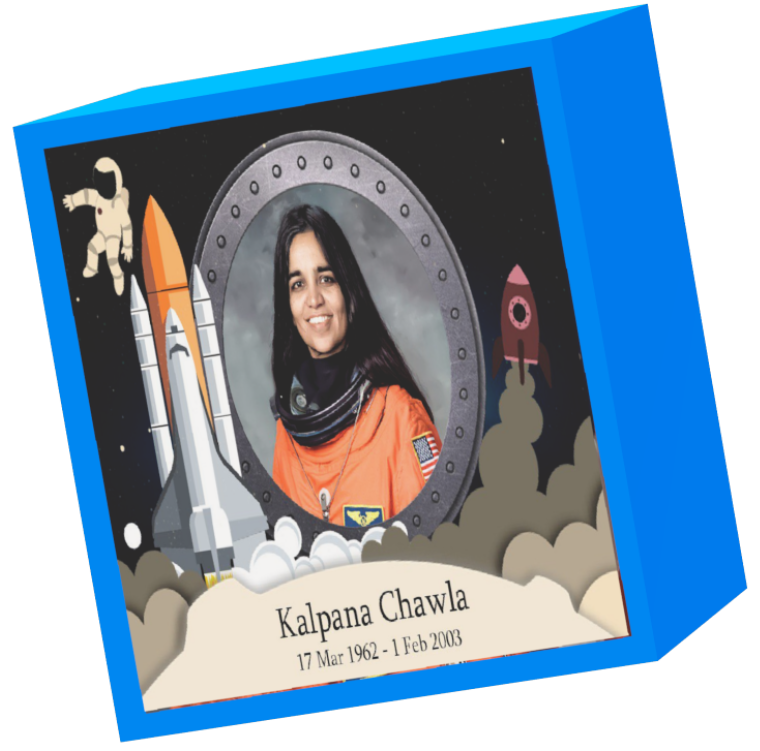
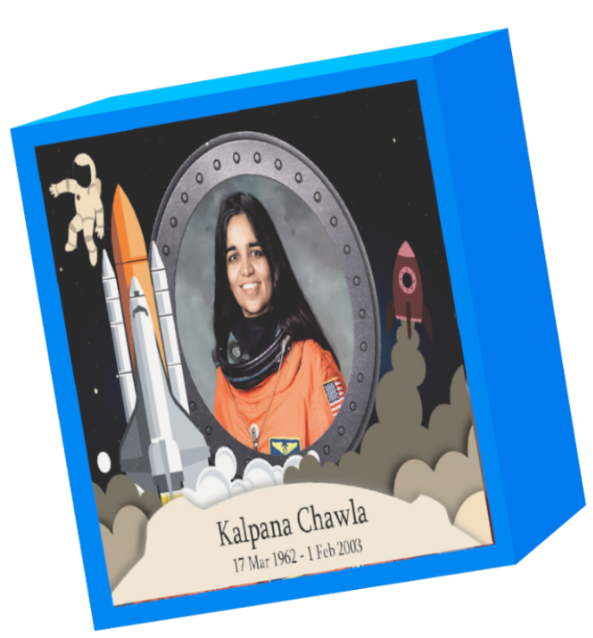
files added

diff --git a/quotes.html b/quotes.html
@@ -41,35 +41,46 @@
 	  <div class="col-md-10">
 	<div class="abouttext justify-content-center">
 		<h2 class="Intro">
-			More about <span id="name"> Kalpana Chawla</span></h2> 
-            <img src="img/4.jpg" class="aboutimg" style="margin-bottom: 20px; margin-top: 20px;" width="100%" height="auto" alt="">
-            <div class="aboutcontent">
-                <p>
-                    When Kalpana was a kid, she would gaze at the stars with her siblings. Right then she made up her mind to unravel the questions of time and space. She once said, “Times like those gave me the opportunity to wonder and ask all those very basic questions. That sense of awe for the heavens started there.”</p>
-            </div><div class="aboutcontent2">
-                        <p>This awe would lead her to overcome all obstacles in her way.
-    
-    At a time when women were still finding it hard to voice their opinions at home and even at work, Kalpana set records and broke glass ceilings everywhere. Unbridled by her status as a woman, she always persuaded people to conquer their dreams and strive on.
-    
-    <br>“I’ve always been very determined. I don’t get easily discouraged.”
-                </p>
-                    </div>
-                    
+			Inspiring<span id="name"> Quotes</span></h2> 
+            <p id="introtext-3"><span class="h4 font-italic" id="name">- Kalpana Chawla</span></p>
             </div>
-            
+            <div class="abouttext justify-content-center" id="q1">
+                <p class="font-italic d-block">“There are so many people who are arguing or fighting over issues which don’t have much relevance. We must all realize it is not worth it.”</p>
+                               
+                    </div>
+            <div class="abouttext justify-content-center"  id="q2">
+                        <p class="font-italic d-block">“You must enjoy the journey because whether or not you get there, you must have fun on the way.”</p>                        
+                    </div>
+            <div class="abouttext justify-content-center"  id="q3">
+                        <p class="font-italic d-block">“If you want to do something, what does it matter where you are ranked?”</p>
+                                               
+                        </div>
+                                    
+            <div class="abouttext justify-content-center"  id="q4">
+                        <p class="font-italic d-block">“The path from dreams to success does exist. May you have the vision to find it, the courage to get on to it, and the perseverance to follow it.” </p>
+                                                       
+                        </div>
+            <div class="abouttext justify-content-center"  id="q5">
+                        <p class="font-italic d-block">“Do something because you really want to do it. If you’re doing it just for the goal and don’t enjoy the path, then I think you’re cheating yourself.”</p>
+                                                           
+                        </div>
+            <div class="abouttext justify-content-center"  id="q6">
+                        <p class="font-italic d-block">“When you look at the stars and the galaxy, you feel that you are not just from any particular piece of land, but from the solar system.”</p>
+                                                               
+                        </div>
+        
+                                                            
 			
 	
+                        <div class="Descript"><p >
+                        </p></div>
 	
-	<div class="Descript"><p >
-		</p></div>
 	</div>
 	</div> 
 	</div>
 	</div>
   </section>
 <!---About Section end-->
-
-
 
 </div>
 

diff --git a/legacy.html b/legacy.html
@@ -41,19 +41,13 @@
 	  <div class="col-md-10">
 	<div class="abouttext justify-content-center">
 		<h2 class="Intro">
-			More about <span id="name"> Kalpana Chawla</span></h2> 
-            <img src="img/4.jpg" class="aboutimg" style="margin-bottom: 20px; margin-top: 20px;" width="100%" height="auto" alt="">
+			Chawla's<span id="name"> Legacy</span></h2> 
+            <img src="img/legacy.jpg" class="aboutimg" style="margin-bottom: 50px; margin-top: 20px;" width="100%" height="auto" alt="">
             <div class="aboutcontent">
-                <p>
-                    When Kalpana was a kid, she would gaze at the stars with her siblings. Right then she made up her mind to unravel the questions of time and space. She once said, “Times like those gave me the opportunity to wonder and ask all those very basic questions. That sense of awe for the heavens started there.”</p>
-            </div><div class="aboutcontent2">
-                        <p>This awe would lead her to overcome all obstacles in her way.
-    
-    At a time when women were still finding it hard to voice their opinions at home and even at work, Kalpana set records and broke glass ceilings everywhere. Unbridled by her status as a woman, she always persuaded people to conquer their dreams and strive on.
-    
-    <br>“I’ve always been very determined. I don’t get easily discouraged.”
-                </p>
-                    </div>
+                <p class="l1">The events of Columbia have been officially investigated and reported on to understand what happened and how to prevent the tragedy from re-occurring in future spaceflights. Examples include the Columbia Accident Investigation Board (2003) NASA's Columbia Crew Survival Investigation Report (released in 2008).</p>
+                <p class="l2">Several documentaries have been produced about the Columbia crew. Some examples include "Astronaut Diaries: Remembering the Columbia Shuttle Crew" (2005), and one that focused on Ilan Ramon, called "Space Shuttle Columbia: Mission of Hope" (2013).</p>   
+                <p class="l3">The University of Texas dedicated a Kalpana Chawla memorial at the Arlington College of Engineering in 2010. At the time of its opening, the display included a flight suit, photographs, information about Chawla's life, and a flag that was flown over the Johnson Space Center during a memorial for the Columbia astronauts.</p>
+            </div>
                     
             </div>
             

diff --git a/index.html b/index.html
@@ -106,7 +106,7 @@
 		<div class="navcolumn" id="nav-column-first">
 		<h2>Home</h2>
 		<a class="cd-btn" href="about.html">About</a>
-		<a class="cd-btn" href="#work work2">Legacy</a>
+		<a class="cd-btn" href="quotes.html">Quotes</a>
 	</div>
 	</div>
 	 <div class="col-md-4">
@@ -221,7 +221,7 @@
   <div class="col-md-5 col-sm-6 col-12">
  <div class="workpic">
  <div class="big-circle-shape"></div>
- <img src="img/about.png" class="img-fluid" id="img" width="" height="" alt="">
+ <img src="img/about.png" class="img-fluid" id="img" width="100%" height="auto" alt="">
  </div>
 	</div>
 
@@ -250,13 +250,13 @@
  
 
 		Kalpana’s legacy continues even after her death. According to Kalpana’s father, Banarasi Lal Chawla, his daughter’s only dream is for children, especially women, to not be deprived of education.</p> 
-	<a class="cd-btn" href="">Know More</a></div>
+	<a class="cd-btn" href="legacy.html">Know More</a></div>
   </div>
   </div>
   <div class="col-md-5 col-sm-6 col-12 offset-md-1" id="second">
  <div class="workpic">
   <div class="big-circle-shape"></div>
- <img src="img/2.png" class="img-fluid" id="img" width="" height="" alt="">
+ <img src="img/2.png" class="img-fluid" id="img" width="100%" height="auto" alt="">
  </div>
 	</div>
 </div>
@@ -268,7 +268,7 @@
   <div class="col-md-5 col-sm-6 col-12"  id="third">
  <div class="workpic">
   <div class="big-circle-shape"></div>
- <img src="img/3.png" class="img-fluid" id="img" width="" height="" alt="">
+ <img src="img/3.png" class="img-fluid" id="img" width="100%" height="auto" alt="">
  </div>
 	</div>
 	
@@ -280,7 +280,7 @@
 		NASA Space Flight Medal and NASA Distinguished Service Medal. Following her death, the Prime Minister of
 		 India announced that the meteorological series of satellites, MetSat, was to be renamed ‘Kalpana’ in 2003. 
 		 </p> 
-	<a class="cd-btn" href="awards.html">Know More</a></div>
+
   </div>
   </div>
 </div>

diff --git a/main.js b/main.js
@@ -76,14 +76,20 @@ sr.reveal('#timeline-header-5', {origin:'bottom', delay: 300})
 sr.reveal('#timeline-content-5', {origin:'bottom', delay: 300})
 sr.reveal('#timeline-header-6', {origin:'bottom', delay: 300})
 sr.reveal('#timeline-content-6', {origin:'bottom', delay: 300})
-
-sr.reveal('.contact__button', {delay: 600})
-
-
-
 sr.reveal('.endline', {delay: 500, interval: 100})
 
 sr.reveal('.aboutimg', {origin:'bottom', delay: 300})
-
 sr.reveal('.aboutcontent', {origin:'bottom', delay: 500})
 sr.reveal('.aboutcontent2', {origin:'bottom', delay: 600})
+
+
+sr.reveal('#q1', {origin:'bottom', delay: 300})
+sr.reveal('#q2', {origin:'bottom', delay: 400})
+sr.reveal('#q3', {origin:'bottom', delay: 500})
+sr.reveal('#q4', {origin:'bottom', delay: 600})
+sr.reveal('#q5', {origin:'bottom', delay: 700})
+sr.reveal('#q6', {origin:'bottom', delay: 800})
+
+sr.reveal('.l1', {origin:'bottom', delay: 300})
+sr.reveal('.l2', {origin:'bottom', delay: 400})
+sr.reveal('.l3', {origin:'bottom', delay: 500})
